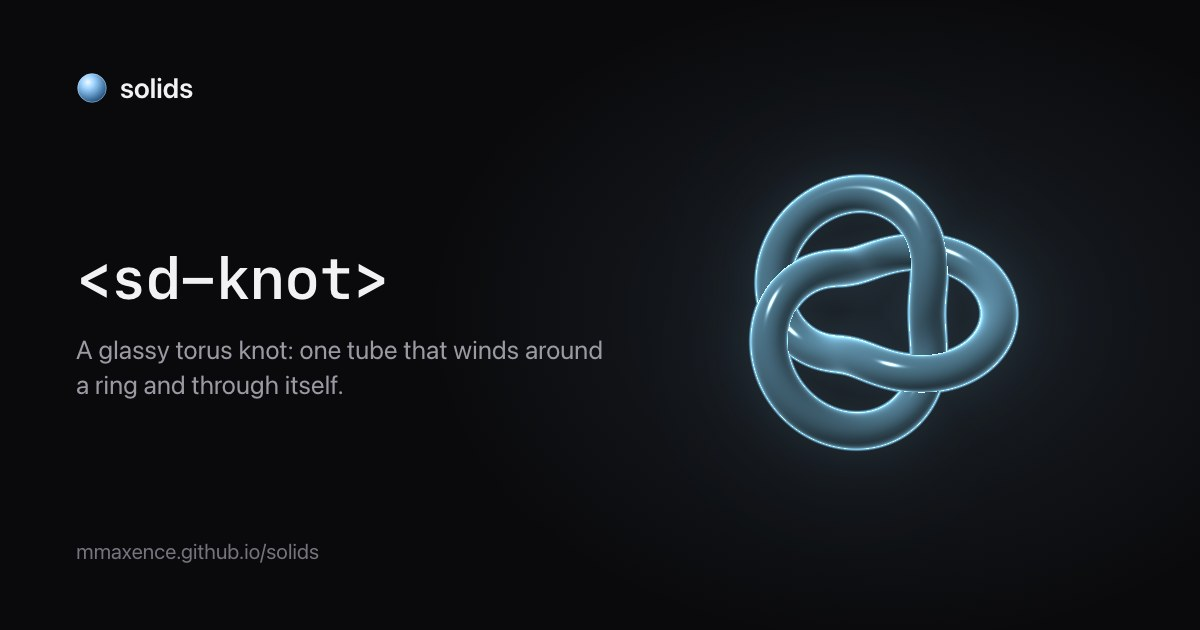
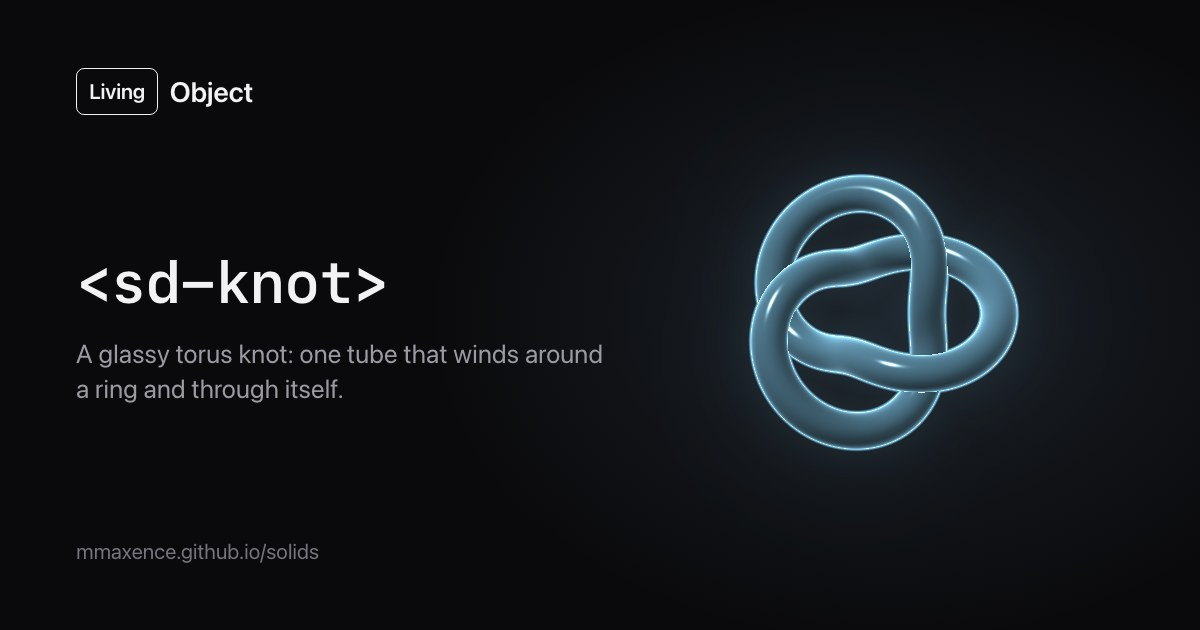
Apply Living Things product branding and shared family navigation

Changed region(s): [[0.0617, 0.5429, 0.5242, 0.6333], [0.0617, 0.4222, 0.3392, 0.4825], [0.0617, 0.0905, 0.2158, 0.181]]

diff --git a/site/src/product-nav.js b/site/src/product-nav.js
@@ -1,0 +1,23 @@
+// Living Things family navigation. IDs and destinations preserve existing links.
+const products=[
+ {id:'materia',name:'Type',description:'Interactive typography',legacy:'Materia'},
+ {id:'prisma',name:'Frame',description:'Image and video effects',legacy:'Prisma'},
+ {id:'solids',name:'Object',description:'Lightweight 3D objects',legacy:'Solids'},
+ {id:'strata',name:'Space',description:'Spatial HTML interfaces',legacy:'Strata'}
+];
+class ProductNavigation extends HTMLElement{
+ connectedCallback(){
+  if(this.shadowRoot)return;
+  const root=this.attachShadow({mode:'open'}),current=this.getAttribute('current');
+  root.innerHTML=`<style>
+  :host{display:inline-flex;position:relative;font:12px/1.4 system-ui,sans-serif;color:inherit}*{box-sizing:border-box}summary{cursor:pointer;list-style:none;padding:8px 0;white-space:nowrap}summary::-webkit-details-marker{display:none}summary::after{content:'+';margin-left:8px}details[open] summary::after{content:'−'}nav{position:absolute;right:0;top:100%;z-index:1200;width:260px;border:1px solid #ffffff25;border-radius:14px;padding:16px;background:#151a1f;color:#f1f4f1;box-shadow:0 18px 50px #0005}p{font-size:10px;color:#a8b6b0;margin:0 0 10px;letter-spacing:.08em}a{display:block;color:inherit;text-decoration:none;padding:10px;border-radius:7px}a:hover,a:focus-visible{background:#ffffff0d}a[aria-current=page]{background:#ffffff12}strong{font-size:14px;font-weight:500}small{display:block;color:#a8b6b0;margin-top:3px}summary:focus-visible,a:focus-visible{outline:2px solid #b9d8c2;outline-offset:3px}@media(max-width:420px){nav{position:fixed;left:16px;right:16px;top:var(--living-menu-top,100px);width:auto}}
+  </style><details><summary>Living Things</summary><nav aria-label="Living Things libraries"><p>LIBRARIES FOR A LIVING WEB</p>${products.map(p=>`<a href="https://mmaxence.github.io/${p.id}/" ${p.id===current?'aria-current="page"':''} title="Living ${p.name}, formerly ${p.legacy}"><strong>Living ${p.name}</strong><small>${p.description}</small></a>`).join('')}</nav></details>`;
+  const details=root.querySelector('details'),summary=root.querySelector('summary');
+  details.addEventListener('toggle',()=>{if(details.open)this.style.setProperty('--living-menu-top',`${Math.min(this.getBoundingClientRect().bottom+10,innerHeight-290)}px`)});
+  this.outside=e=>{if(!e.composedPath().includes(this))details.open=false};
+  this.escape=e=>{if(e.key==='Escape'&&details.open){details.open=false;summary.focus()}};
+  document.addEventListener('pointerdown',this.outside);document.addEventListener('keydown',this.escape);
+ }
+ disconnectedCallback(){document.removeEventListener('pointerdown',this.outside);document.removeEventListener('keydown',this.escape)}
+}
+if(!customElements.get('product-navigation'))customElements.define('product-navigation',ProductNavigation);

diff --git a/site/src/shell.html b/site/src/shell.html
@@ -11,7 +11,7 @@
 <meta name="theme-color" content="#0a0a0c" media="(prefers-color-scheme: dark)">
 <meta name="theme-color" content="#f4f4f7" media="(prefers-color-scheme: light)">
 <meta property="og:type" content="website">
-<meta property="og:site_name" content="solids">
+<meta property="og:site_name" content="Living Object">
 <meta property="og:title" content="{{title}}">
 <meta property="og:description" content="{{description}}">
 <meta property="og:url" content="{{url}}">
@@ -32,12 +32,13 @@
 <script data-goatcounter="https://solids.goatcounter.com/count"
   data-goatcounter-settings='{"path":"/{{analyticsPath}}","referrer":"","no_events":true}'
   async src="https://gc.zgo.at/count.js" referrerpolicy="no-referrer"></script>
+<link rel="stylesheet" href="{{root}}living-brand.css">
 </head>
 <body>
 <a class="skip" href="#{{skip}}">Skip to content</a>
 <header class="top">
-  <a class="brand" href="{{root}}index.html"><sd-orb size="22px" color="#9bd1ff" glow="0.4"></sd-orb><span>solids</span></a>
-  <nav class="top-links" aria-label="Site">
+  <a class="brand living-brand" href="{{root}}index.html"><span class="living-block">Living</span> <sd-orb size="22px" color="#9bd1ff" glow="0.4"></sd-orb><span class="brand-word object-word">Object</span></a>
+  <nav class="top-links" aria-label="Site"><product-navigation current="solids"></product-navigation>
     <a href="https://github.com/mmaxence/solids">GitHub</a>
     <button type="button" class="theme" aria-label="Switch theme">Theme</button>
   </nav>
@@ -47,9 +48,10 @@
   <nav class="side" aria-label="Library">{{nav}}</nav>
   <main id="main" class="main">{{main}}</main>
 </div>
-<footer class="foot">
-  <span>solids is MIT licensed.</span>
-  <span>Built by <a href="https://mmaxence.me">Maxence Mauduit</a>. Also exploring <a href="https://mmaxence.github.io/materia/">Materia: living typography</a>.</span>
+<footer class="foot"><p class="living-family-note">Living Things · Libraries for a living web</p>
+  <span>Living Object is MIT licensed.</span>
+  <span>Built by <a href="https://mmaxence.me">Maxence Mauduit</a>. Also exploring <a href="https://mmaxence.github.io/materia/">Living Type: living typography</a>.</span>
 </footer>
+<script type="module" src="{{root}}product-nav.js"></script>
 </body>
 </html>

diff --git a/site/src/living-brand.css b/site/src/living-brand.css
@@ -1,0 +1,11 @@
+/* Living Things: shared identity, independently shipped by every library. */
+.brand.living-brand{display:inline-flex;align-items:center;gap:10px;white-space:nowrap;text-decoration:none;flex-shrink:0;line-height:1;margin:0;padding:4px 0;letter-spacing:-.035em;font-size:22px;font-weight:600}
+.brand.living-brand .living-block{display:inline-flex;align-items:center;justify-content:center;position:relative;isolation:isolate;overflow:hidden;padding:9px 11px;border:1px solid currentColor;border-radius:7px;font:600 14px/1 system-ui,sans-serif;letter-spacing:-.04em;color:inherit;background:color-mix(in srgb,currentColor 5%,transparent)}
+.living-block::after{content:"";position:absolute;inset:0;z-index:-1;background:linear-gradient(110deg,transparent 20%,currentColor 50%,transparent 80%);opacity:0;transform:translateX(-130%);transition:transform .8s ease,opacity .8s ease}
+.living-brand:hover .living-block::after,.living-brand:focus-visible .living-block::after{transform:translateX(130%);opacity:.12}
+.living-brand .brand-word{font:inherit;letter-spacing:inherit;color:inherit}
+.living-brand .strata-mark,.living-brand>sd-orb{display:none}
+.living-family-note{font:400 12px/1.6 system-ui,sans-serif;opacity:.7;letter-spacing:0}
+product-navigation{display:inline-flex;flex-shrink:0}
+@media(max-width:680px){.brand.living-brand{font-size:20px;gap:8px}.brand.living-brand .living-block{font-size:13px;padding:8px 9px}.public-nav,.family-header,.top{flex-wrap:wrap;gap:12px}.public-nav>nav{flex-wrap:wrap;gap:14px}.family-header .brand-group,.family-header .nav-left{gap:18px;flex-wrap:wrap}.top-links{gap:12px}}
+@media(prefers-reduced-motion:reduce){.living-block::after{transition:none;display:none}}

diff --git a/site/src/styles.css b/site/src/styles.css
@@ -268,3 +268,24 @@ td:first-child code { white-space: nowrap; }
 .compare-rows h2 { margin: 0 0 4px; font-size: 20px; }
 .compare-rows > li > p { margin: 0 0 12px; color: var(--muted); }
 .catalogue.compare li { display: grid; place-items: center; padding: 14px 6px; border: 1px solid var(--line); border-radius: 14px; background: var(--glass); }
+
+/* Object's wordmark: a shallow solid face, with one slow turn into the light. */
+.brand.living-brand { perspective: 420px; }
+.brand.living-brand .object-word {
+  display: inline-block;
+  transform-origin: 50% 55%;
+  text-shadow: 0 1px 0 color-mix(in srgb, currentColor 65%, transparent),
+    0 2px 0 color-mix(in srgb, currentColor 32%, transparent),
+    0 3px 0 color-mix(in srgb, currentColor 15%, transparent);
+  animation: object-word-turn 7s cubic-bezier(.4,0,.2,1) infinite;
+}
+@keyframes object-word-turn {
+  0%, 10%, 72%, 100% { transform: rotateX(0deg) rotateY(0deg) translateY(0); }
+  26% { transform: rotateX(10deg) rotateY(-14deg) translateY(-1px); }
+  44% { transform: rotateX(-6deg) rotateY(12deg) translateY(-1px); }
+  60% { transform: rotateX(0deg) rotateY(0deg) translateY(0); }
+}
+html[data-brand-paused] .object-word { animation-play-state: paused; }
+@media (prefers-reduced-motion: reduce) {
+  .brand.living-brand .object-word { animation: none; transform: none; }
+}

diff --git a/site/src/site.js b/site/src/site.js
@@ -1,3 +1,8 @@
+// Keep the decorative wordmark at rest while the page is out of sight.
+const syncBrandMotion = () => document.documentElement.toggleAttribute('data-brand-paused', document.hidden);
+document.addEventListener('visibilitychange', syncBrandMotion);
+syncBrandMotion();
+
 // Page behavior: theme toggle, tabs, generated controls, live markup, copy buttons.
 const $ = (s, r = document) => r.querySelector(s);
 const $$ = (s, r = document) => [...r.querySelectorAll(s)];

diff --git a/site/src/intro.md b/site/src/intro.md
@@ -1,13 +1,13 @@
 ## Built for agents
 
-solids is made to be extended by a coding agent. Every object follows one short contract, a manifest, a shader with a `map()` function and a README, so an agent that reads it can add a shape that fits the family. The new object gets its own page here, with the shared controls.
+Living Object is made to be extended by a coding agent. Every object follows one short contract, a manifest, a shader with a `map()` function and a README, so an agent that reads it can add a shape that fits the family. The new object gets its own page here, with the shared controls.
 
 1. Clone the repo and give your agent [skill.md](skill.md), the contract.
 2. Describe the shape you want in a sentence or two.
 3. Run `npm run check`. When it prints `ok`, the object compiles, draws and fits the size budget.
 
 ```text
-Read https://mmaxence.github.io/solids/skill.md, then add an object to solids:
+Read https://mmaxence.github.io/solids/skill.md, then add an object to Living Object (the solids repository):
 a pebble, a flattened stone with a soft edge, with one parameter for how flat it is.
 Run npm run check until it prints ok.
 ```

diff --git a/README.md b/README.md
@@ -1,4 +1,7 @@
-# solids
+# Living Object
+
+Part of **Living Things — Libraries for a living web**. Formerly **Solids**. Existing repository URLs, package names, imports and APIs remain unchanged.
+
 
 Lightweight 3D objects for the web. Zero dependencies, about 27 KB gzipped for the whole library.
 
